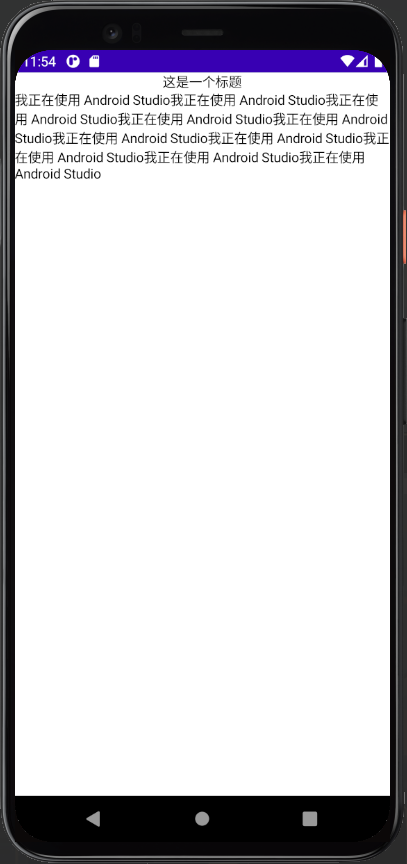
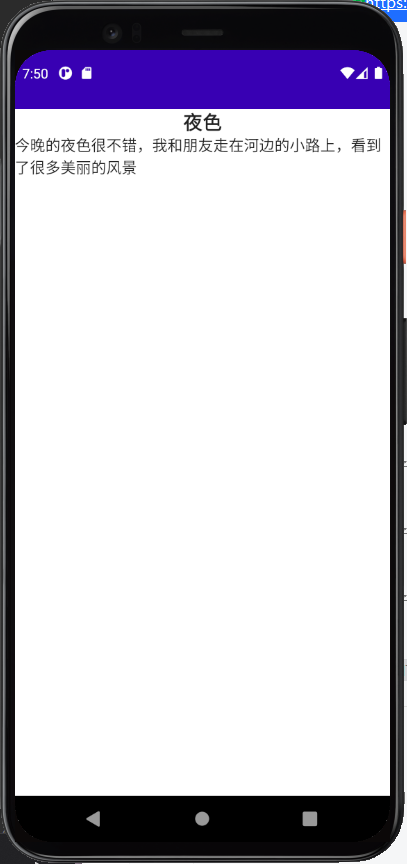
更新 Column

Changed region(s): [[0.0295, 0.0, 1.0, 0.25], [0.8845, 0.5, 1.0, 1.0], [0.973, 0.2812, 1.0, 0.375]]

diff --git a/docs/layout/column.md b/docs/layout/column.md
@@ -1,7 +1,7 @@
 
 ![url](https://developer.android.com/images/jetpack/compose/layout-column-row-box.png)
 
-`Column` 是 Jetpack Compose 中一个很基本的布局种类，它会将里面的控件以行的形式呈现
+`Column` 是 Jetpack Compose 中一个很基本的布局种类，它会将里面的组件以行的形式呈现
 
 ``` kotlin
 class MainActivity : ComponentActivity() {
@@ -56,32 +56,25 @@ fun ColumnDemo() {
 
 ## 2.特定文字居中
 
-如果我们想让 `Column` 一些特定的文字居中怎么办
-我们只需要在需要居中的文字的地方添加 `Column`，并且添加之前的两个参数
+如果我们想让 `Column` 里面的某些文字居中而不是全部居中怎么办
+
+我们只需要在需要居中的文字的地方添加 `Modifier.align` 参数，并且将 `Column` 的 `modifier` 参数设置为 `fillMaxWidth()` 即可实现效果
 
 代码如下：
 ``` kotlin
 @Composable
 fun ColumnDemo() {
-    Column{
+    Column(
+        modifier = Modifier.fillMaxWidth()
+    ){
 
-        Column(
-            modifier = Modifier.fillMaxWidth(),
-            horizontalAlignment = Alignment.CenterHorizontally
-        ){
-            Text("这是一个标题")
-        }
+        Text(
+            text = "夜色",
+            modifier = Modifier.align(Alignment.CenterHorizontally),
+            style = MaterialTheme.typography.h6,
+            fontWeight = FontWeight.W900)
 
-        Text("我正在使用 Android Studio" +
-                "我正在使用 Android Studio" +
-                "我正在使用 Android Studio" +
-                "我正在使用 Android Studio" +
-                "我正在使用 Android Studio" +
-                "我正在使用 Android Studio" +
-                "我正在使用 Android Studio" +
-                "我正在使用 Android Studio" +
-                "我正在使用 Android Studio" +
-                "我正在使用 Android Studio")
+        Text("今晚的夜色很不错，我和朋友走在河边的小路上，看到了很多美丽的风景")
     }
 }
 ```
